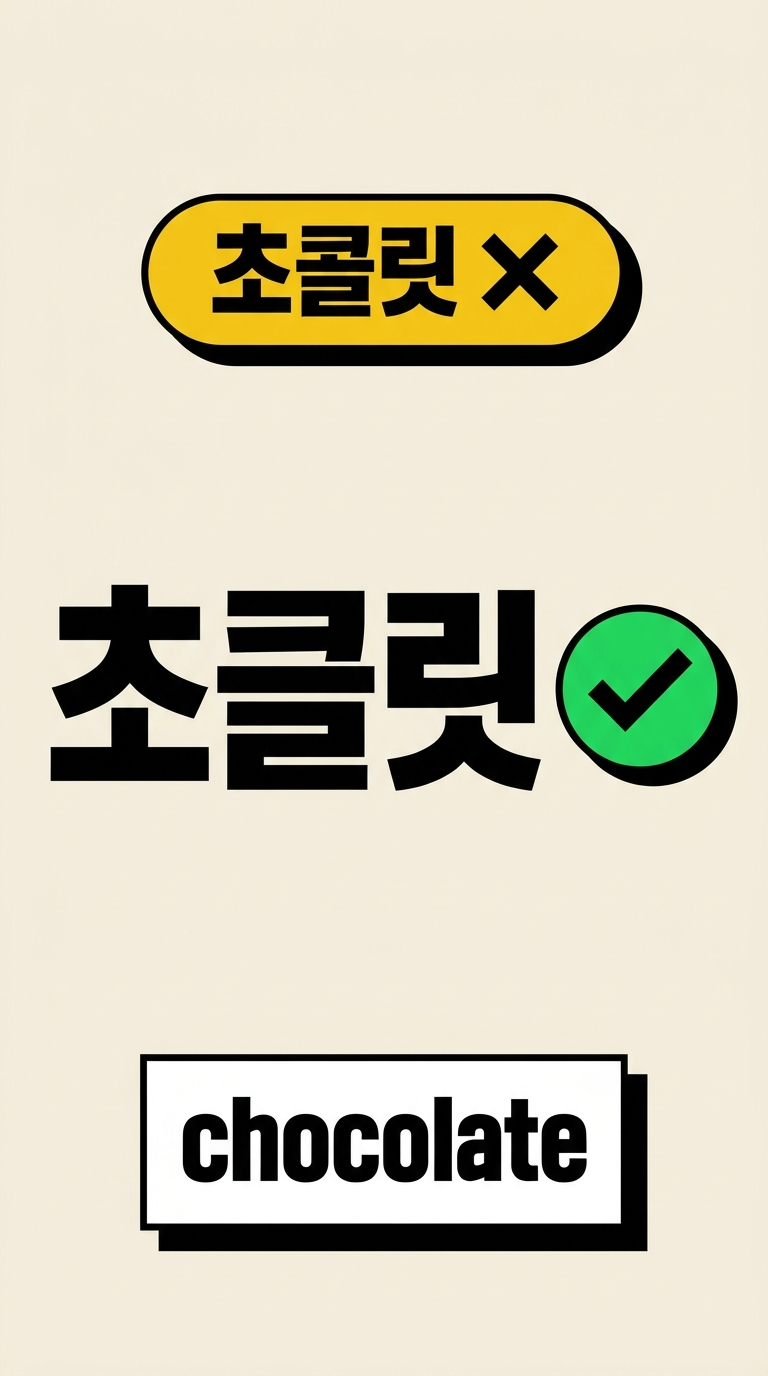
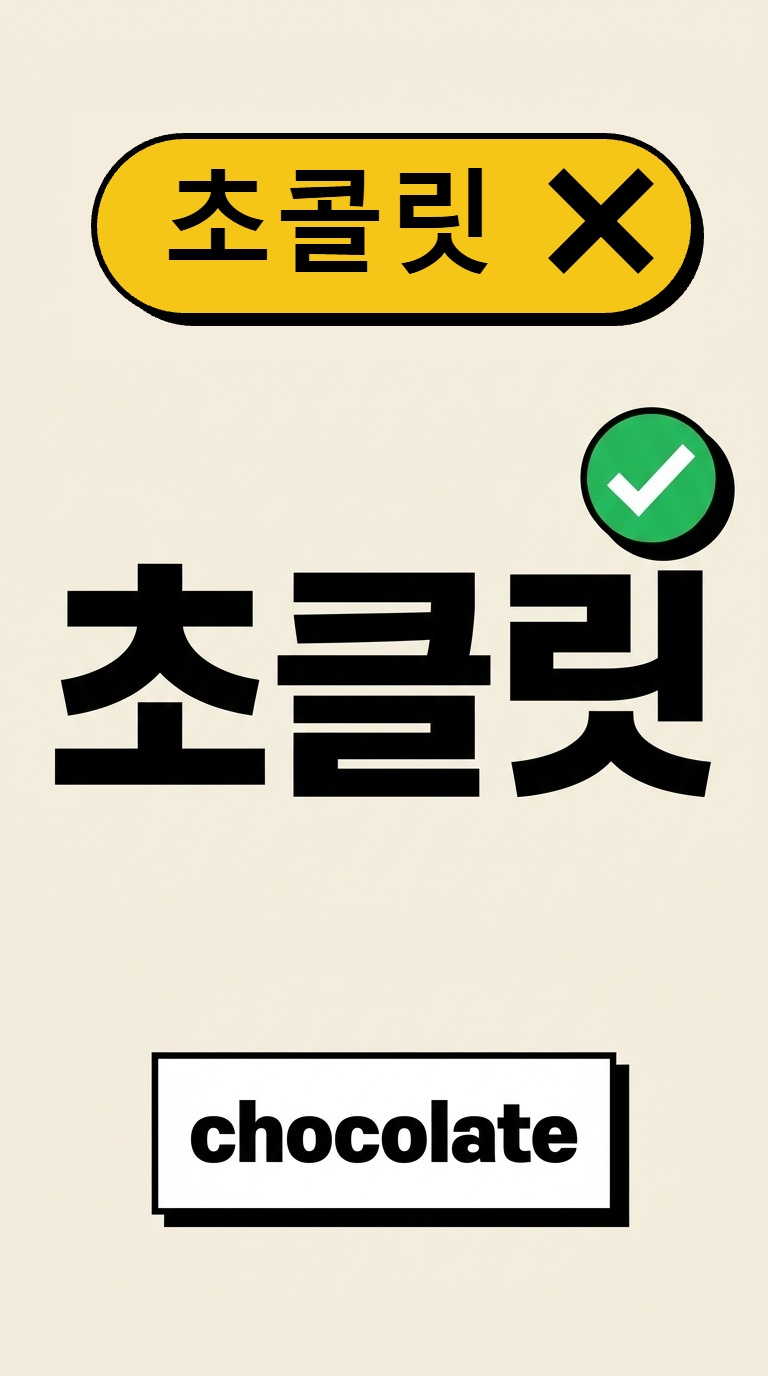
fix(data): 썸네일 시안 E 알약 글자를 초콜릿으로 고침

Changed region(s): [[0.0625, 0.0938, 0.9688, 0.5938], [0.1562, 0.75, 0.8438, 0.9375]]

diff --git a/knowledge/logs/2026-11.md b/knowledge/logs/2026-11.md
@@ -757,3 +757,7 @@
 - 사용자 정정: "실제 크기"는 원본(768×1376)이 아니라 유튜브에 나오는 크기였다. 시트의 썸네일 시안을 가로 200px(세로 358px)로 줄이고 체크박스도 24px로 줄였다. 200px는 쇼츠 목록 크기를 짐작한 값이라 다르면 `.pick img.real`의 width만 고친다.
 - 시안 C의 알약 한글이 뭉개진다는 내 판단은 사용자가 아니라고 확인해 시트 `pending`에서 뺐다.
 - 확인: `npm test` pass 411 / fail 0, 화면 검사 통과, 브라우저에서 시안 5장이 200×358로 표시됨.
+
+## 2026-11-12 썸네일 시안 E 알약 오타 수정
+- AI Studio가 알약의 "초콜릿"을 두 번 다 "초클릿"으로 그려(프롬프트에 음절을 풀어 써도 같음), 알약 칸만 배경색으로 덮고 같은 모양의 노란 알약을 코드(canvas)로 다시 그려 "초콜릿 ✗"로 고쳤다. 나머지(큰 "초클릿", 체크, chocolate 카드)는 그대로.
+- 시안 A는 사용자 지시대로 그대로 두었고 같은 오타가 남아 시트 `pending`에 적었다. 눈으로 확인: 알약 "초콜릿 ✗"(둘째 글자에 ㅗ).
